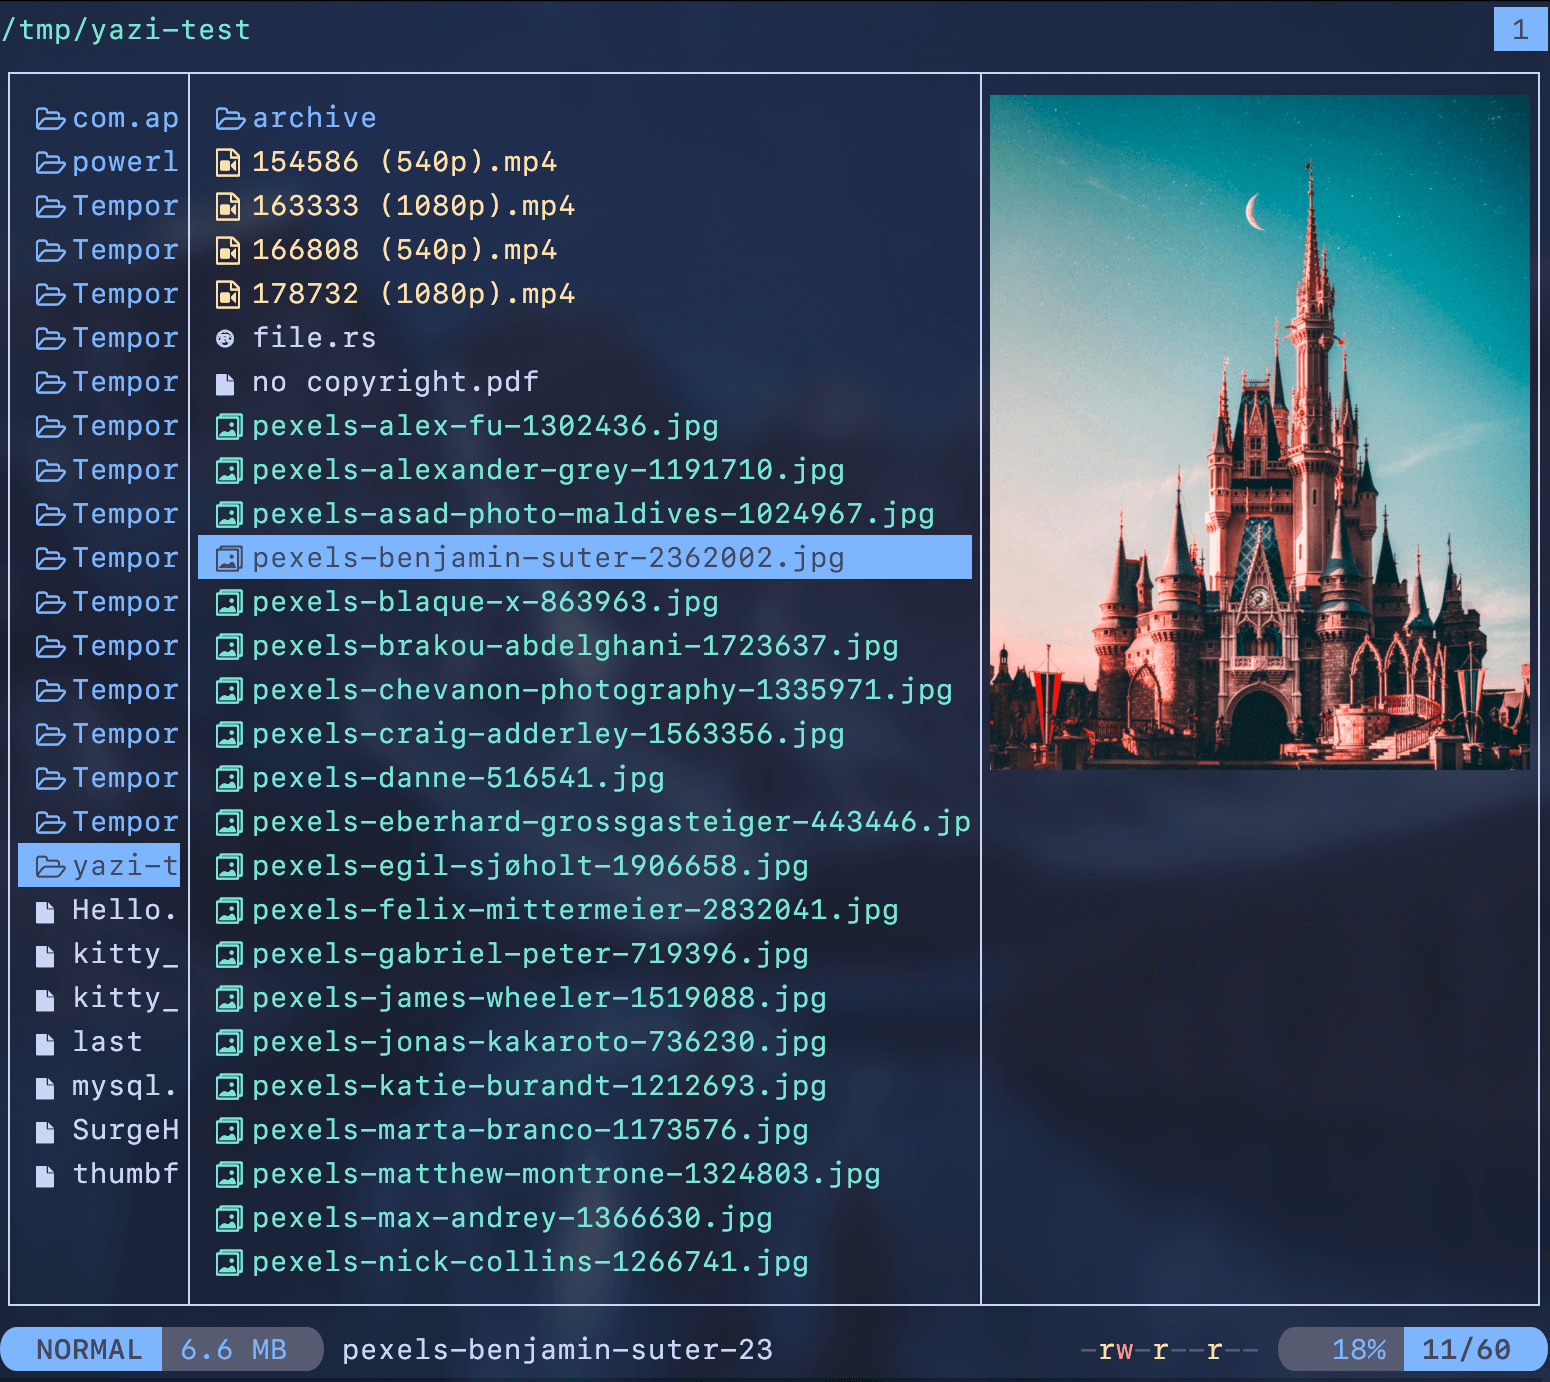
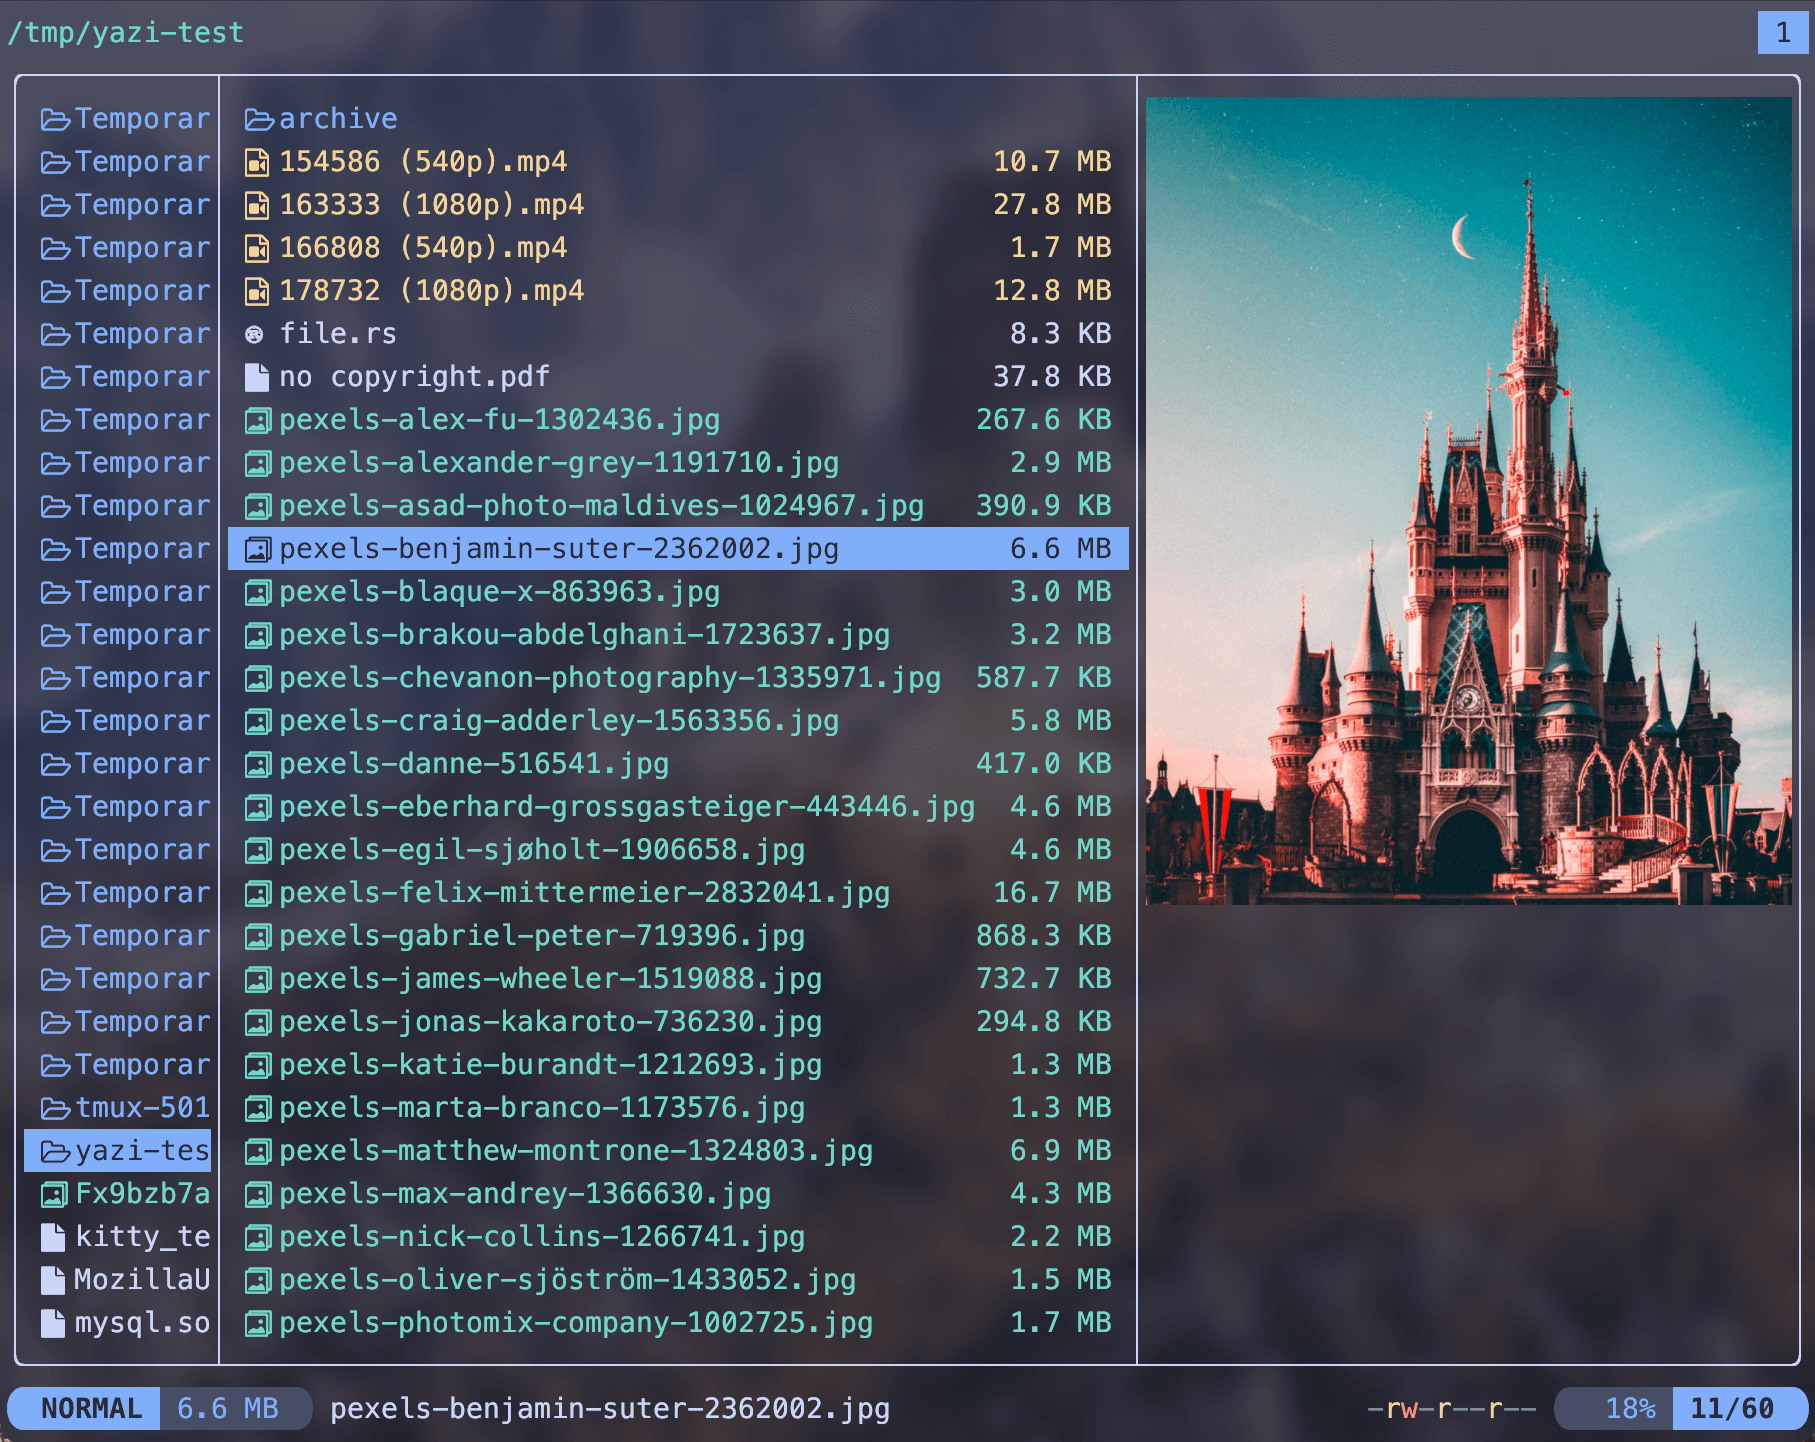
docs: add full border configuration tip

diff --git a/docs/tips.md b/docs/tips.md
@@ -28,7 +28,7 @@ Copy the preset [`manager` component](https://github.com/sxyazi/yazi/blob/main/y
 -		-- Borders
 -		ui.Bar(chunks[1], ui.Position.RIGHT):symbol(THEME.manager.border_symbol):style(THEME.manager.border_style),
 -		ui.Bar(chunks[3], ui.Position.LEFT):symbol(THEME.manager.border_symbol):style(THEME.manager.border_style),
-+		ui.Border(area, ui.Position.ALL),
++		ui.Border(area, ui.Position.ALL):type(ui.Border.ROUNDED),
 +		ui.Bar(chunks[1], ui.Position.RIGHT),
 +		ui.Bar(chunks[3], ui.Position.LEFT),
 +
@@ -49,6 +49,8 @@ Copy the preset [`manager` component](https://github.com/sxyazi/yazi/blob/main/y
  	}
  end
 ```
+
+If you prefer sharp corners for the border, you can remove `:type(ui.Border.ROUNDED)`.
 
 Finally include it and adjust the manager layout offset:
 
